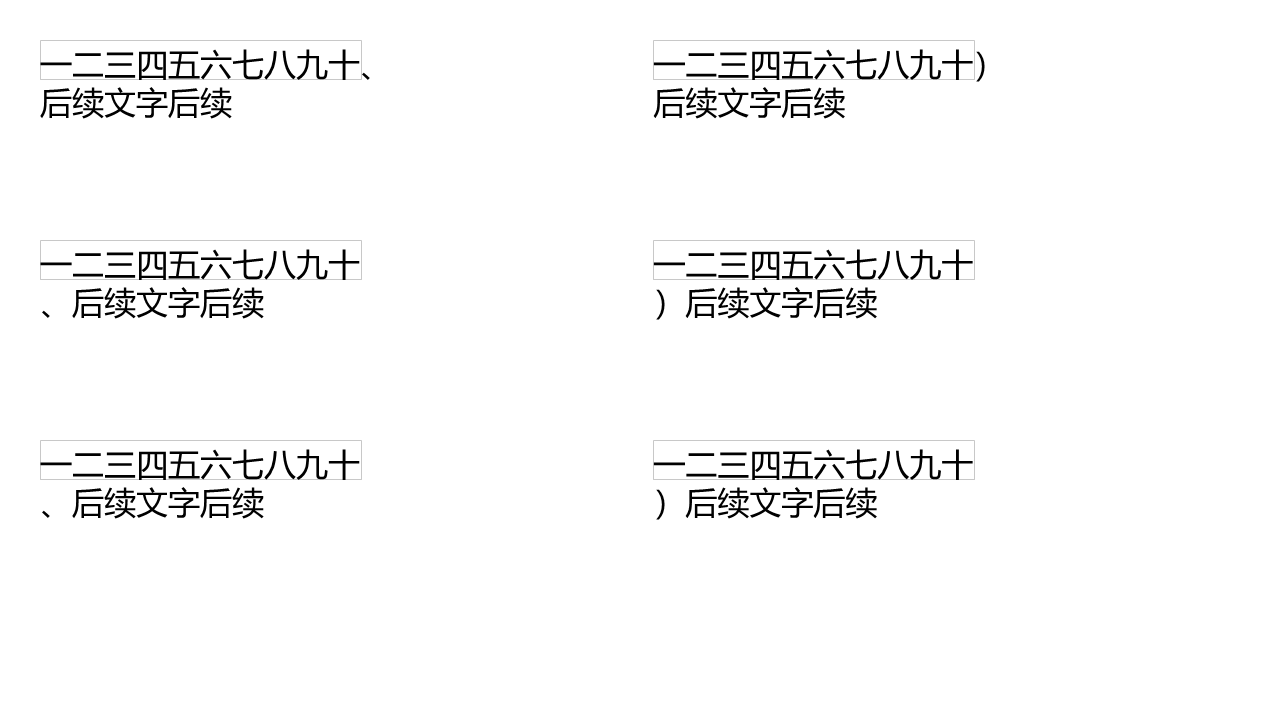
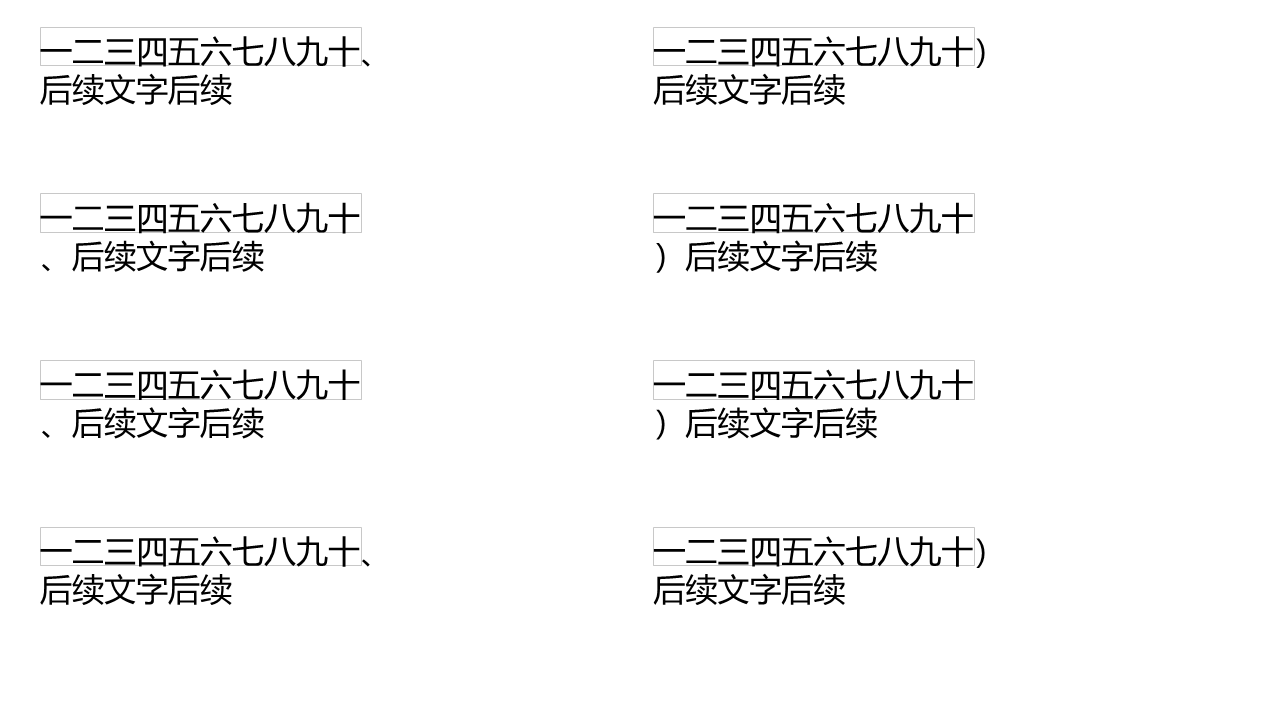
fix: 行首禁则和悬挂判断语言时也看 altLang（en-US + altLang=zh-CN 的中文照样悬挂）
随机 120 份第二次 A/B：114 页变好、13 页变差（通过率 77.87% -> 78.89%）。变差的一类：整段 lang="en-US" altLang="zh-CN"，
PowerPoint 照样做行首禁则、悬挂。text-ea-lang 加一行 en-US + altLang 对照（参考图重新导出，用例内容变了）。

diff --git a/packages/transcoder/src/text/style.ts b/packages/transcoder/src/text/style.ts
@@ -119,6 +119,7 @@ export function runStyle(r: XEl, env: TextEnv, scale: number): RunStyle {
     kern: numAttr(r, 'kern') !== undefined ? numAttr(r, 'kern')! / 100 : undefined,
     caps: (attr(r, 'cap') as RunStyle['caps']) ?? 'none',
     eaLang: /^(zh|ja|ko)/i.test(attr(r, 'lang') ?? ''),
+    eaBreak: /^(zh|ja|ko)/i.test(attr(r, 'lang') ?? '') || /^(zh|ja|ko)/i.test(attr(r, 'altLang') ?? ''),
     latinScript: scriptOf(child(r, 'a:latin'), latin, env),
     eaScript: scriptOf(child(r, 'a:ea'), ea, env),
     outline: textOutline(child(r, 'a:ln'), env),

diff --git a/packages/transcoder/src/text/types.ts b/packages/transcoder/src/text/types.ts
@@ -86,6 +86,8 @@ export interface RunStyle {
   eaScript?: 'jp' | 'ea';
   /** 文字语言是中日韩（a:rPr lang）：引号按东亚字体、全角排（measure.ts） */
   eaLang: boolean;
+  /** lang 或 altLang 是中日韩：行首禁则、标点悬挂按中文规则（linebreak.ts） */
+  eaBreak: boolean;
   outline?: { color: Rgba; width: number };
   /** 文字效果（a:effectLst）：阴影、发光、内阴影、映像…… */
   effects?: XEl;

diff --git a/tools/make-case/make.py b/tools/make-case/make.py
@@ -2908,12 +2908,12 @@ text_br_empty_line.patch = _patch_br_empty_line
 
 def text_ea_lang(app):
     """行首禁则、标点悬挂和文字语言（rPr lang）：正好放下 10 个汉字的框，第 11 个字是标点；每行一个框，
-    整段的 lang 依次是 zh-CN、en-US、没写（保存后改 XML）；左列第 11 个字是"、"，右列是"）" """
+    整段的 lang 依次是 zh-CN、en-US、没写、en-US 加 altLang="zh-CN"（保存后改 XML）；左列第 11 个字是"、"，右列是"）" """
     p = new_pres(app)
     s = blank(p)
-    for k in range(6):
-        col, row = k // 3, k % 3
-        tb = s.Shapes.AddTextbox(1, 30 + col * 460, 30 + row * 150, 240.5, 120)
+    for k in range(8):
+        col, row = k // 4, k % 4
+        tb = s.Shapes.AddTextbox(1, 30 + col * 460, 20 + row * 125, 240.5, 110)
         tf = tb.TextFrame
         tf.MarginLeft = tf.MarginRight = 0
         tf.WordWrap = -1
@@ -2936,7 +2936,7 @@ def _patch_ea_lang(path):
             data = zin.read(item.filename)
             if item.filename == "ppt/slides/slide1.xml":
                 x = data.decode("utf8")
-                for row, lang in enumerate(['lang="zh-CN"', 'lang="en-US"', '']):
+                for row, lang in enumerate(['lang="zh-CN"', 'lang="en-US"', '', 'lang="en-US" altLang="zh-CN"']):
                     def fix(m):
                         body = re.sub(r'<a:rPr\b[^>]*?(/?)>', lambda r: f'<a:rPr{" " + lang if lang else ""} sz="2400"{r.group(1)}>', m.group(0))
                         body = re.sub(r'<a:endParaRPr\b[^>]*?(/?)>', lambda r: f'<a:endParaRPr{" " + lang if lang else ""} sz="2400"{r.group(1)}>', body)

diff --git a/SPEC.md b/SPEC.md
@@ -237,7 +237,7 @@
 | 嵌入字体里 PowerPoint 不用的：CFF 轮廓（.otf，Office 只能嵌入 TrueType 轮廓，这种是别的工具嵌进去的）、表目录没按标签升序排的——按缺字体替代显示（我们也按缺字体排版和显示，并记警告） | 样本 87 个（85 个目录倒序的 CFF 思源黑体等、2 个目录倒序的 TrueType 微软雅黑），参考图都按缺字体替代；用上它们反而离参考图更远（9 份课件平均 0.9358 → 0.9381）。手工拼的 EOT 连对照组 PowerPoint 都不认，没能用中性用例分开验证；embedded-font-usable.test.mjs |
 | 允许标点溢出边界（`hangingPunct="1"`，中文版默认模板的母版就写着；**哪里都没写时也开着**，只有写了 `"0"` 才关）：一行放不下的行首禁则标点（，。、；：！？）」』”’》】 和半角 ,.;:!?)）挂在边界外面，不把前一个字带到下一行，每行最多挂一个；关掉时前一个字和标点一起换行 | text-hanging-punct：正好放下 10 个汉字的框，第 11 个字依次换成各种标点；text-hanging-unset（默认样式、母版里的 hangingPunct 都删掉，文本框和占位符照样挂）0.936 → 0.985，样本一页 0.755 → 0.950 |
 | 只有换行的空行（段落里两个 `a:br` 之间没有字）：行高按结束这一行的那个换行自己的字号（`a:br` 的 rPr）；有字的行不管行尾换行的字号，段末的空行（最后一个换行后面没字）按段末字号（endParaRPr） | text-br-empty-line（10/40、40/10、全 8 磅、段末 40 磅四种）0.989 → 0.999；样本一页（8 磅表格文字里的空行以前按 18 磅画，行高翻倍）0.682 → 0.883 |
-| 行首禁则和标点溢出边界只在断点两边至少有一个字的语言（rPr lang）是中日韩时起作用：前后的字都在 lang 写成 en-US 或没写的文字段里时，"、）"等照样可以在行首、也不悬挂；单独一段 en-US 的标点跟在中文后面照样悬挂 | text-ea-lang（zh-CN / en-US / 没写 × "、" "）"）0.966 → 0.998；样本一页（没写 lang 的长文字段，"、"排在行首）：给那段补上 lang="zh-CN" 后 PowerPoint 就悬挂 |
+| 行首禁则和标点溢出边界只在断点两边至少有一个字的语言（rPr lang 或 altLang）是中日韩时起作用：前后的字都在 lang 写成 en-US 或没写、也没有中日韩 altLang 的文字段里时，"、）"等照样可以在行首、也不悬挂；单独一段 en-US 的标点跟在中文后面照样悬挂 | text-ea-lang（zh-CN / en-US / 没写 / en-US + altLang=zh-CN × "、" "）"）0.988；样本一页（没写 lang 的长文字段，"、"排在行首）：给那段补上 lang="zh-CN" 后 PowerPoint 就悬挂 |
 | 按中文习惯控制首尾字符（`eaLnBrk`，默认开）：关掉（`eaLnBrk="0"`，老模板的演示文稿默认样式常见）时不做行首/行尾禁则——行首可以是"，。"、行尾可以是"（"；标点溢出边界也只在它开着时起作用 | text-ea-line-break：2×2 组合 × 3 种标点，12 个框全部一致；样本里文本框改用默认样式后暴露（0.874 → 0.951） |
 | 引号 ‘’“” 的字体看文字语言：`lang` 是中日韩时用东亚字体、按全角排，英文时用西文字体（半角）；破折号、省略号、间隔号在中文里也用西文字体。破折号后面可以断行（—— 能拆到两行） | text-ambiguous-punct：西文 Arial、中文宋体，同一段文字分别标 zh-CN / en-US（0.953 → 0.975） |
 | 版式里没有对应项的占位符不继承母版的形状（不画填充和边框，文字仍按母版的正文样式排）——编号是 4294967295（"没有编号"，老格式 .ppt 转换常见）的除外，它按类型继承母版的形状；自己、版式、母版都没写形状（无 prstGeom / custGeom）时也不画填充和边框 | placeholders-inherit：idx 不存在于版式的占位符、没写形状的文本框；placeholders-orphan：副标题/无类型 × 编号 4294967295/普通编号 |

diff --git a/docs/optimization-log.md b/docs/optimization-log.md
@@ -43,6 +43,7 @@
 | 页码占位符不显示 | 页码字段里没写 `<a:t>` 时整个文本框当成没有字跳过了 | 页码字段算有字：新用例 slide-number-bare-field，样本一页补上了页码 | bb84c55 |
 | 矮图表的绘图区被压扁、斜排的分类标签截成两个字 | 绘图区手动布局写的是内框（layoutTarget=inner），我们当外框又扣了标签的位置 | 内框就是绘图区、标签画在外面：新用例 charts-cat-rot-short 0.892 → 0.928，样本一页 0.803 → 0.864 | 87eb4fc |
 | 图表分类显示"2020/9"，PowerPoint 是"2020年9月" | 日期格式只认几种固定写法 | 按格式代码逐个替换（chart/date-format.ts，单元测试 5 组）；图表用例不变 | d79890a |
+| 随机 120 份第二次 A/B（含上面各条）：114 页变好、13 页变差，通过率 77.87% → 78.89% | 变差里有一类：lang="en-US" altLang="zh-CN" 的中文段落 PowerPoint 照样悬挂 | 判断语言时也看 altLang：text-ea-lang 加一行对照，样本那几页回到原分 | 见下一条提交 |
 
 ## 2026-10-17 下午~晚上：按错题继续修、新加 13 个探针用例
 
